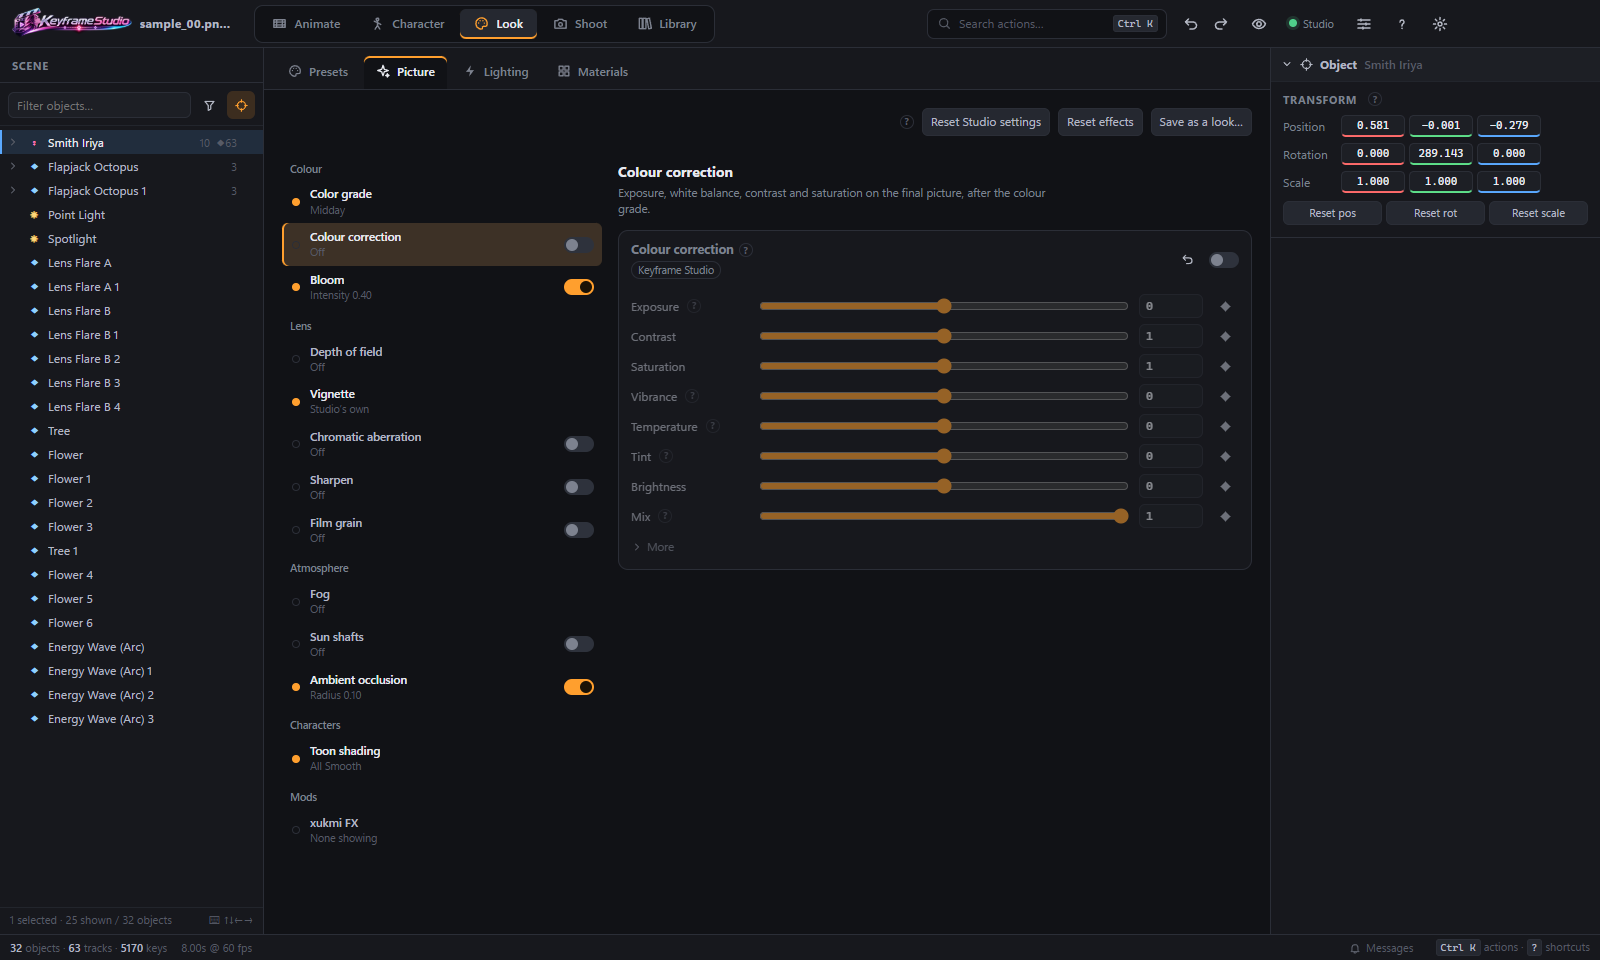
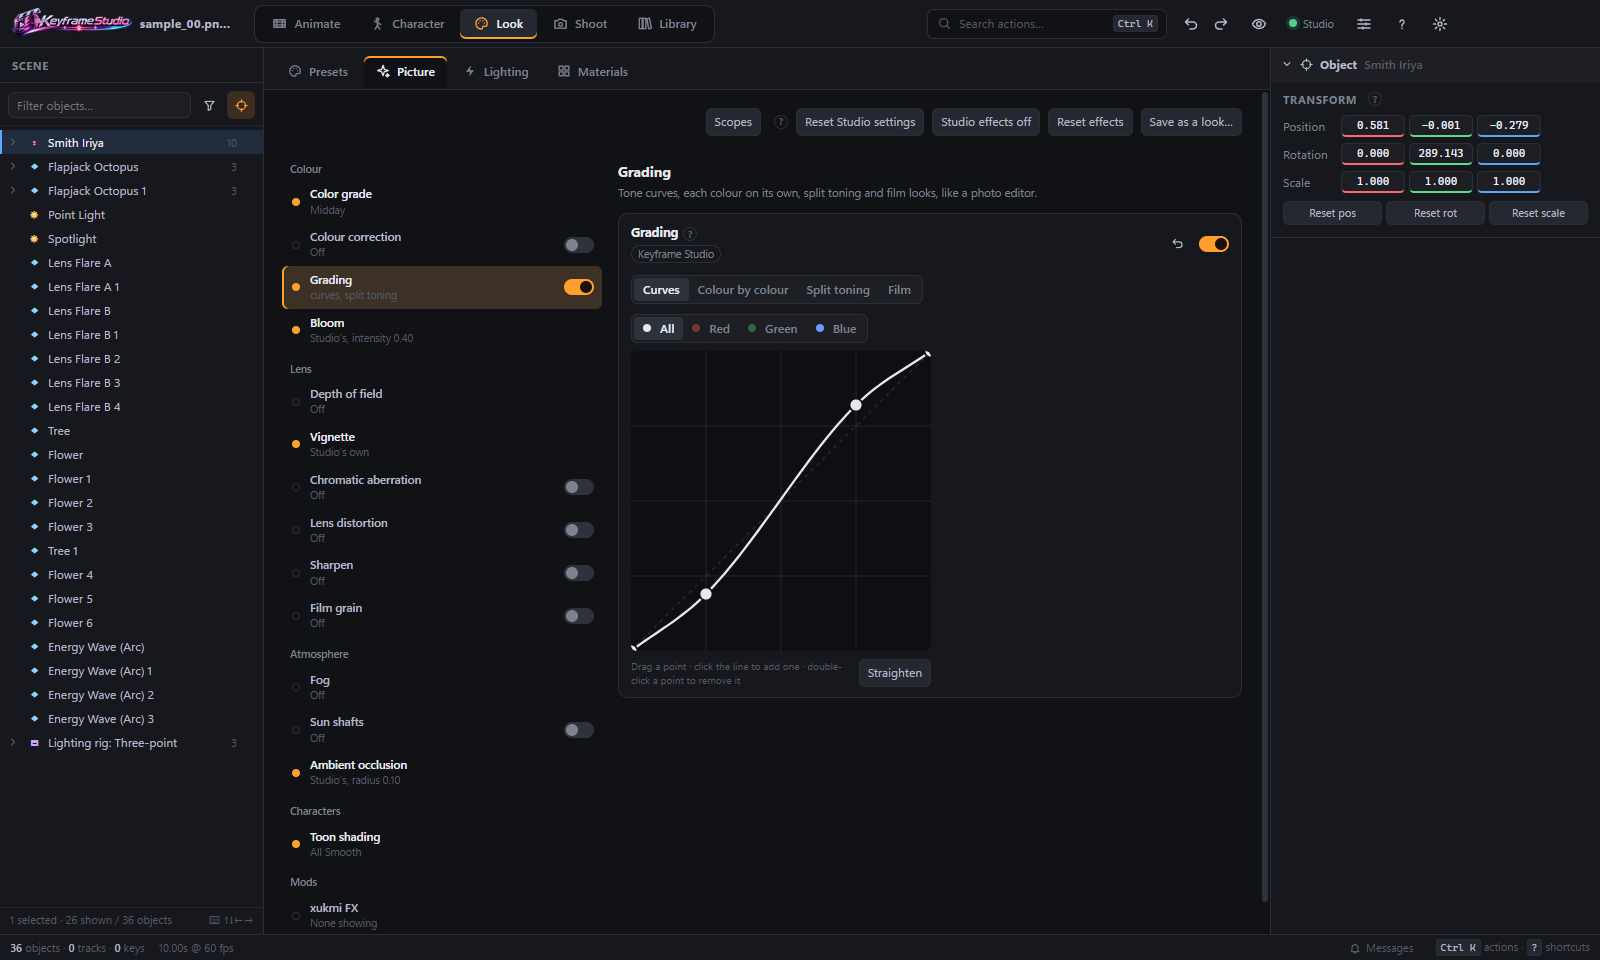
README: Lighting section and new Picture, Output and View screenshots

diff --git a/README.md b/README.md
@@ -32,7 +32,8 @@ editor beside it — ideal on a second monitor:
 - **A real timeline.** Dope sheet and graph editor, keys you drag and snap, easing curves, folders, search, undo for everything.
 - **Longer motions from Studio's own.** The Motion builder strings animations, poses and your clips together, blended, with feet that stay planted.
 - **Pose where you look.** Click a joint in Studio's view and turn it on its rings; drag IK targets, props, lights, cameras and accessories.
-- **Everything else in one place.** Faces and lip-sync, looks and effects, lighting rigs, cameras and shots, audio, rendering with several versions at once.
+- **Light like a 3D program.** Scene lights that really reach characters, rigs around a character, and a lighting maker where you drag lights and watch Studio follow.
+- **Everything else in one place.** Faces and lip-sync, looks, grading and effects, cameras and shots, audio, videos and quality stills with several versions at once.
 - **Nothing locked in.** Animations are stored by the existing **Timeline** plugin, so scenes stay compatible with vanilla Timeline and other people's setups.
 
 ## A quick look
@@ -67,19 +68,19 @@ paths and onion-skin ghosts, folders (an eye mutes a whole folder or object), se
 <table>
   <tr>
     <td width="50%"><img src="docs/images/app-face.png" alt="Animate › Face: expressions keyed at the playhead with a close-up"></td>
-    <td width="50%"><img src="docs/images/app-look-picture.png" alt="Look › Picture: a short list of effects with switches, grouped into colour, lens and atmosphere, and the picked effect's settings beside it"></td>
+    <td width="50%"><img src="docs/images/app-look-picture.png" alt="Look › Picture: the list of effects grouped into colour, lens and atmosphere, with Grading picked and its tone curve beside it"></td>
   </tr>
   <tr>
     <td><b>Face</b> — expressions keyed at the playhead, lip-sync from audio with vowel shapes, natural blinks.</td>
-    <td><b>Look</b> — every render setting, built-in effects (fog, colour, depth of field, grain…), materials, lighting rigs, presets.</td>
+    <td><b>Look</b> — every render setting, built-in effects (grading with tone curves, LUTs, fog, depth of field, grain…), materials, lighting, presets.</td>
   </tr>
   <tr>
-    <td><img src="docs/images/app-output.png" alt="Shoot › Output: a video's sizes, frame rate, file type and framing"></td>
-    <td><img src="docs/images/app-view-options.png" alt="The View options: overlays, handles, paths and ghosts"></td>
+    <td><img src="docs/images/app-output.png" alt="Shoot › Output: still pictures with sizes to pick several of, quality settings (smoothing, real lens blur, ray-traced shade, 16 bits per colour), file type and framing"></td>
+    <td><img src="docs/images/app-view-options.png" alt="The View options: the selected object's numbers, handles, overlays including the camera route, and what a click selects"></td>
   </tr>
   <tr>
-    <td><b>Shoot</b> — shots and cameras, audio clips, video renders (straight to video, several sizes and framings from one render, audio mixed in), stills.</td>
-    <td><b>View</b> — overlays, handles, motion paths and ghosts, toggled from the bottom bar.</td>
+    <td><b>Shoot</b> — shots and cameras, audio clips, video renders (straight to video, several sizes and framings from one render, audio mixed in), quality stills (many renders averaged, real lens blur, ray-traced shade, 16-bit).</td>
+    <td><b>View</b> — overlays, handles, motion paths, ghosts and the camera route, toggled from the bottom bar.</td>
   </tr>
 </table>
 
@@ -91,6 +92,17 @@ The **Motion builder** puts Studio's animations, poses and your motion clips in 
 and blends each into the next. Drag, trim and blend the blocks; set speed, mirror and **Feet planted**, which keeps
 a foot still while it's down, so Studio's on-the-spot walks and runs really cross the floor. It's all built into
 ordinary keys you can edit, as one undo step.
+
+### Lighting you can see and drag
+
+<p align="center"><img src="docs/images/app-lighting-maker.png" alt="Look › Lighting: Studio's lights, lights on characters and a three-point rig in one list; the rig open in the lighting maker, its lights drawn from above and from the side, and the key light's place, colour, strength, reach and cone below" width="860"></p>
+
+**Look › Lighting** lists Studio's own lights, lights on characters and every light, rig and projector in the scene,
+each with a switch, and opens one editor for the one you pick. In the **lighting maker** a rig's lights are drawn
+from above and from the side: drag one and it moves in Studio as you drag, drop in spot, point or sun lights, set
+each one's place in degrees and metres, and save the rig to fit any character. **Lights on characters** makes scene
+lights reach characters like in any 3D program, whatever shader they use, and **Built-in light** turns down the anime
+shaders' always-lit look until only your lights light them.
 
 ## Get started
 
